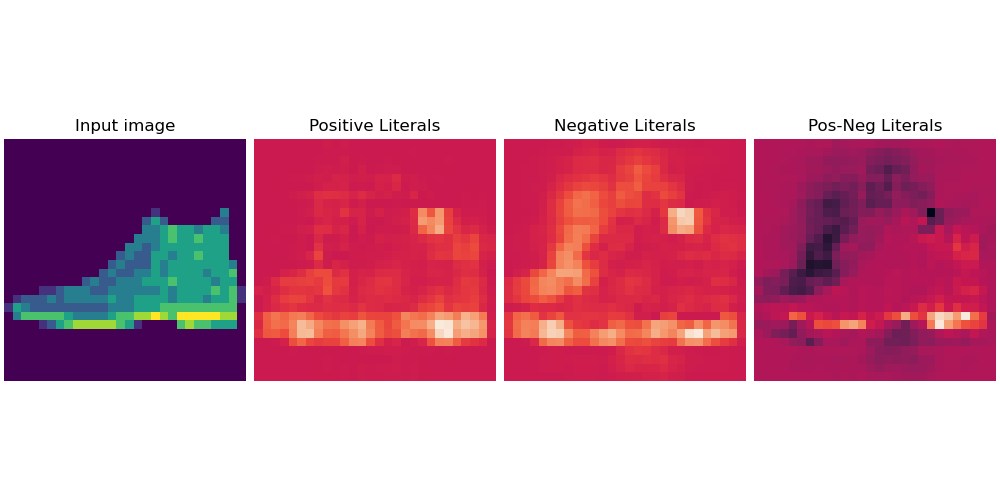
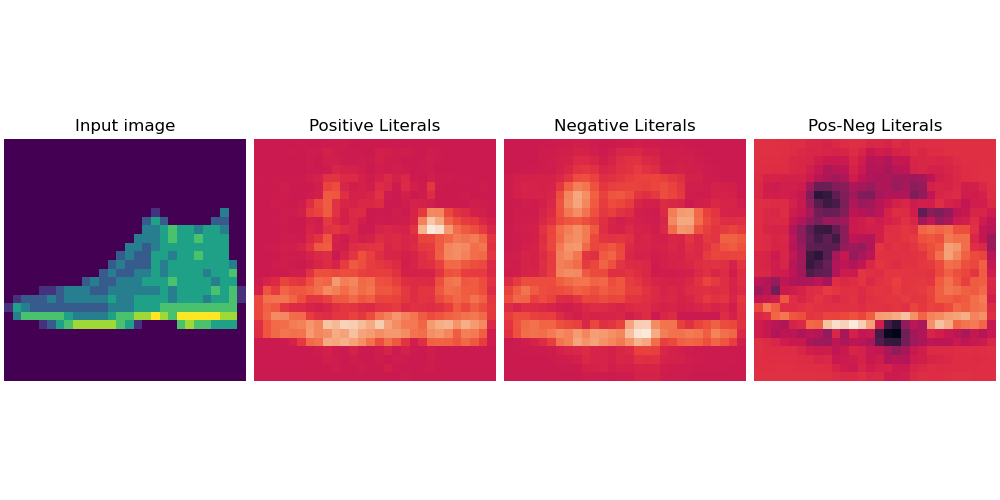
"Update"

diff --git a/FMNISTConvolutionDemo.py b/FMNISTConvolutionDemo.py
@@ -66,7 +66,7 @@ def default_args(**kwargs):
     parser.add_argument("--depth", default=1, type=int)
     parser.add_argument("--hypervector-size", default=128, type=int)
     parser.add_argument("--hypervector-bits", default=2, type=int)
-    parser.add_argument("--message-size", default=256, type=int)
+    parser.add_argument("--message-size", default=512, type=int)
     parser.add_argument("--message-bits", default=2, type=int)
     parser.add_argument(
         "--double-hashing", dest="double_hashing", default=False, action="store_true"
@@ -282,4 +282,3 @@ for e in [0, 1, 2]:
         ax.axis("off")
 
     fig.savefig(f"figs/fmnist_test_{label_names[int(pred)]}.png")
-    plt.show()
